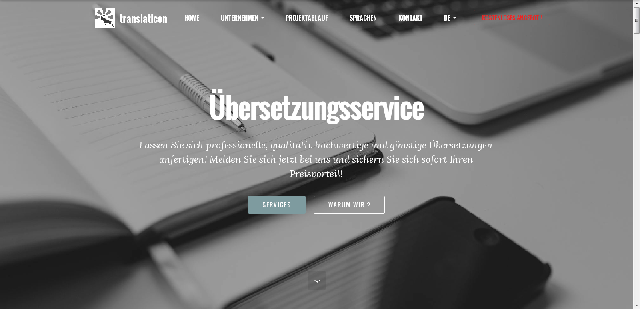
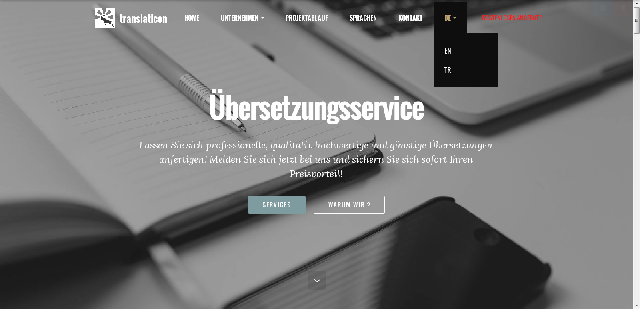
translaticon

Changed region(s): [[0.6562, 0.0, 0.7812, 0.2913]]

diff --git a/tr/index.html b/tr/index.html
@@ -62,7 +62,7 @@
                         <div class="hamburger-icon"></div>
                     </button>
 
-                    <ul class="nav-dropdown collapse pull-xs-right nav navbar-nav navbar-toggleable-sm" id="exCollapsingNavbar"><li class="nav-item"><a class="nav-link link" href="#top">ANASAYFA</a></li><li class="nav-item dropdown"><a class="nav-link link dropdown-toggle" data-toggle="dropdown-submenu" href="https://mobirise.com/" aria-expanded="false">KURUMSAL</a><div class="dropdown-menu"><a class="dropdown-item" href="index.html#header3-0">HAKKIMIZDA</a><a class="dropdown-item" href="index.html#header3-1">HİZMETLER</a><a class="dropdown-item" href="index.html#header3-2">NEDEN BİZ ?</a><a class="dropdown-item" href="index.html#header3-3">REFERANSLAR</a></div></li><li class="nav-item"><a class="nav-link link" href="index.html#header3-4" aria-expanded="false">NASIL ÇALIŞIR?</a></li><li class="nav-item"><a class="nav-link link" href="index.html#header3-1" aria-expanded="false">DİLLER</a></li><li class="nav-item"><a class="nav-link link" href="index.html#contacts1-0" aria-expanded="false">İLETİŞİM</a></li><li class="nav-item dropdown open"><a class="nav-link link dropdown-toggle" href="#top" aria-expanded="true" data-toggle="dropdown-submenu">TR</a><div class="dropdown-menu"><a class="dropdown-item" href="http://www.translaticon.com/en/index.html">EN</a><a class="dropdown-item" href="http://www.translaticon.com/de/index.html">DE</a></div></li><li class="nav-item nav-btn"><a class="nav-link btn btn-danger-outline btn-danger" href="mailto:info@translaticon.com" target="_blank">ÜCRETSİZ TEKLİF AL !</a></li></ul>
+                    <ul class="nav-dropdown collapse pull-xs-right nav navbar-nav navbar-toggleable-sm" id="exCollapsingNavbar"><li class="nav-item"><a class="nav-link link" href="#top">ANASAYFA</a></li><li class="nav-item dropdown"><a class="nav-link link dropdown-toggle" data-toggle="dropdown-submenu" href="https://mobirise.com/" aria-expanded="false">KURUMSAL</a><div class="dropdown-menu"><a class="dropdown-item" href="index.html#header3-0">HAKKIMIZDA</a><a class="dropdown-item" href="index.html#header3-1">HİZMETLER</a><a class="dropdown-item" href="index.html#header3-2">NEDEN BİZ ?</a><a class="dropdown-item" href="index.html#header3-3">REFERANSLAR</a></div></li><li class="nav-item"><a class="nav-link link" href="index.html#header3-4" aria-expanded="false">NASIL ÇALIŞIR?</a></li><li class="nav-item"><a class="nav-link link" href="index.html#header3-1" aria-expanded="false">DİLLER</a></li><li class="nav-item"><a class="nav-link link" href="index.html#contacts1-0" aria-expanded="false">İLETİŞİM</a></li><li class="nav-item dropdown open"><a class="nav-link link dropdown-toggle" href="#top" aria-expanded="true" data-toggle="dropdown-submenu">TR</a><div class="dropdown-menu"><a class="dropdown-item" href="http://www.translaticon.com/index.html">EN</a><a class="dropdown-item" href="http://www.translaticon.com/de/index.html">DE</a></div></li><li class="nav-item nav-btn"><a class="nav-link btn btn-danger-outline btn-danger" href="mailto:info@translaticon.com" target="_blank">ÜCRETSİZ TEKLİF AL !</a></li></ul>
                     <button hidden="" class="navbar-toggler navbar-close" type="button" data-toggle="collapse" data-target="#exCollapsingNavbar">
                         <div class="close-icon"></div>
                     </button>
@@ -75,7 +75,7 @@
 
 </section>
 
-<section class="engine"><a rel="external" href="https://mobirise.com">best offline web site development software download</a></section><section class="mbr-section mbr-section-hero mbr-section-full mbr-section-with-arrow mbr-after-navbar" id="header1-0" style="background-image: url(assets/images/computer-768696-1920-1-2000x1333-21-2000x1333-15.jpg);">
+<section class="engine"><a rel="external" href="https://mobirise.com">free wysiwyg web page building software download</a></section><section class="mbr-section mbr-section-hero mbr-section-full mbr-section-with-arrow mbr-after-navbar" id="header1-0" style="background-image: url(assets/images/computer-768696-1920-1-2000x1333-21-2000x1333-15.jpg);">
 
     <div class="mbr-overlay" style="opacity: 0.3; background-color: rgb(0, 0, 0);"></div>
 

diff --git a/de/index.html b/de/index.html
@@ -62,7 +62,7 @@
                         <div class="hamburger-icon"></div>
                     </button>
 
-                    <ul class="nav-dropdown collapse pull-xs-right nav navbar-nav navbar-toggleable-sm" id="exCollapsingNavbar"><li class="nav-item"><a class="nav-link link" href="#top">HOME</a></li><li class="nav-item dropdown"><a class="nav-link link dropdown-toggle" data-toggle="dropdown-submenu" href="https://mobirise.com/" aria-expanded="false">UNTERNEHMEN</a><div class="dropdown-menu"><a class="dropdown-item" href="index.html#header3-0">ÜBER UNS</a><a class="dropdown-item" href="index.html#header3-1">SERVICES</a><a class="dropdown-item" href="index.html#header3-2">WARUM WIR ?</a><a class="dropdown-item" href="index_de.html#header3-3">REFERENZEN</a></div></li><li class="nav-item"><a class="nav-link link" href="index.html#header3-4" aria-expanded="false">PROJEKTABLAUF</a></li><li class="nav-item"><a class="nav-link link" href="index.html#header3-1" aria-expanded="false">SPRACHEN</a></li><li class="nav-item"><a class="nav-link link" href="index.html#contacts1-0" aria-expanded="false">KONTAKT</a></li><li class="nav-item dropdown open"><a class="nav-link link dropdown-toggle" href="#top" aria-expanded="true" data-toggle="dropdown-submenu">DE</a><div class="dropdown-menu"><a class="dropdown-item" href="http://www.translaticon.com/en/index.html">EN</a><a class="dropdown-item" href="http://www.translaticon.com/tr/index.html">TR</a></div></li><li class="nav-item nav-btn"><a class="nav-link btn btn-danger-outline btn-danger" href="mailto:info@translaticon.com" target="_blank">KOSTENLOSES ANGEBOT !</a></li></ul>
+                    <ul class="nav-dropdown collapse pull-xs-right nav navbar-nav navbar-toggleable-sm" id="exCollapsingNavbar"><li class="nav-item"><a class="nav-link link" href="#top">HOME</a></li><li class="nav-item dropdown"><a class="nav-link link dropdown-toggle" data-toggle="dropdown-submenu" href="https://mobirise.com/" aria-expanded="false">UNTERNEHMEN</a><div class="dropdown-menu"><a class="dropdown-item" href="index.html#header3-0">ÜBER UNS</a><a class="dropdown-item" href="index.html#header3-1">SERVICES</a><a class="dropdown-item" href="index.html#header3-2">WARUM WIR ?</a><a class="dropdown-item" href="index_de.html#header3-3">REFERENZEN</a></div></li><li class="nav-item"><a class="nav-link link" href="index.html#header3-4" aria-expanded="false">PROJEKTABLAUF</a></li><li class="nav-item"><a class="nav-link link" href="index.html#header3-1" aria-expanded="false">SPRACHEN</a></li><li class="nav-item"><a class="nav-link link" href="index.html#contacts1-0" aria-expanded="false">KONTAKT</a></li><li class="nav-item dropdown open"><a class="nav-link link dropdown-toggle" href="#top" aria-expanded="true" data-toggle="dropdown-submenu">DE</a><div class="dropdown-menu"><a class="dropdown-item" href="http://www.translaticon.com/index.html">EN</a><a class="dropdown-item" href="http://www.translaticon.com/tr/index.html">TR</a></div></li><li class="nav-item nav-btn"><a class="nav-link btn btn-danger-outline btn-danger" href="mailto:info@translaticon.com" target="_blank">KOSTENLOSES ANGEBOT !</a></li></ul>
                     <button hidden="" class="navbar-toggler navbar-close" type="button" data-toggle="collapse" data-target="#exCollapsingNavbar">
                         <div class="close-icon"></div>
                     </button>
@@ -75,7 +75,7 @@
 
 </section>
 
-<section class="engine"><a rel="external" href="https://mobirise.com">best html website generator software</a></section><section class="mbr-section mbr-section-hero mbr-section-full mbr-section-with-arrow mbr-after-navbar" id="header1-0" style="background-image: url(assets/images/computer-768696-1920-1-2000x1333-21-2000x1333-15.jpg);">
+<section class="engine"><a rel="external" href="https://mobirise.com">bootstrap website generator</a></section><section class="mbr-section mbr-section-hero mbr-section-full mbr-section-with-arrow mbr-after-navbar" id="header1-0" style="background-image: url(assets/images/computer-768696-1920-1-2000x1333-21-2000x1333-15.jpg);">
 
     <div class="mbr-overlay" style="opacity: 0.3; background-color: rgb(0, 0, 0);"></div>
 

diff --git a/tr/privacy_policy.html b/tr/privacy_policy.html
@@ -61,7 +61,7 @@
                         <div class="hamburger-icon"></div>
                     </button>
 
-                    <ul class="nav-dropdown collapse pull-xs-right nav navbar-nav navbar-toggleable-sm" id="exCollapsingNavbar"><li class="nav-item"><a class="nav-link link" href="#top">ANASAYFA</a></li><li class="nav-item dropdown"><a class="nav-link link dropdown-toggle" data-toggle="dropdown-submenu" href="https://mobirise.com/" aria-expanded="false">KURUMSAL</a><div class="dropdown-menu"><a class="dropdown-item" href="index.html#header3-0">HAKKIMIZDA</a><a class="dropdown-item" href="index.html#header3-1">HİZMETLER</a><a class="dropdown-item" href="index.html#header3-2">NEDEN BİZ ?</a><a class="dropdown-item" href="index.html#header3-3">REFERANSLAR</a></div></li><li class="nav-item"><a class="nav-link link" href="index.html#header3-4" aria-expanded="false">NASIL ÇALIŞIR?</a></li><li class="nav-item"><a class="nav-link link" href="index.html#header3-1" aria-expanded="false">DİLLER</a></li><li class="nav-item"><a class="nav-link link" href="index.html#contacts1-0" aria-expanded="false">İLETİŞİM</a></li><li class="nav-item dropdown open"><a class="nav-link link dropdown-toggle" href="#top" aria-expanded="true" data-toggle="dropdown-submenu">TR</a><div class="dropdown-menu"><a class="dropdown-item" href="http://www.translaticon.com/en/index.html">EN</a><a class="dropdown-item" href="http://www.translaticon.com/de/index.html">DE</a></div></li><li class="nav-item nav-btn"><a class="nav-link btn btn-danger-outline btn-danger" href="mailto:info@translaticon.com" target="_blank">ÜCRETSİZ TEKLİF AL !</a></li></ul>
+                    <ul class="nav-dropdown collapse pull-xs-right nav navbar-nav navbar-toggleable-sm" id="exCollapsingNavbar"><li class="nav-item"><a class="nav-link link" href="#top">ANASAYFA</a></li><li class="nav-item dropdown"><a class="nav-link link dropdown-toggle" data-toggle="dropdown-submenu" href="https://mobirise.com/" aria-expanded="false">KURUMSAL</a><div class="dropdown-menu"><a class="dropdown-item" href="index.html#header3-0">HAKKIMIZDA</a><a class="dropdown-item" href="index.html#header3-1">HİZMETLER</a><a class="dropdown-item" href="index.html#header3-2">NEDEN BİZ ?</a><a class="dropdown-item" href="index.html#header3-3">REFERANSLAR</a></div></li><li class="nav-item"><a class="nav-link link" href="index.html#header3-4" aria-expanded="false">NASIL ÇALIŞIR?</a></li><li class="nav-item"><a class="nav-link link" href="index.html#header3-1" aria-expanded="false">DİLLER</a></li><li class="nav-item"><a class="nav-link link" href="index.html#contacts1-0" aria-expanded="false">İLETİŞİM</a></li><li class="nav-item dropdown open"><a class="nav-link link dropdown-toggle" href="#top" aria-expanded="true" data-toggle="dropdown-submenu">TR</a><div class="dropdown-menu"><a class="dropdown-item" href="http://www.translaticon.com/index.html">EN</a><a class="dropdown-item" href="http://www.translaticon.com/de/index.html">DE</a></div></li><li class="nav-item nav-btn"><a class="nav-link btn btn-danger-outline btn-danger" href="mailto:info@translaticon.com" target="_blank">ÜCRETSİZ TEKLİF AL !</a></li></ul>
                     <button hidden="" class="navbar-toggler navbar-close" type="button" data-toggle="collapse" data-target="#exCollapsingNavbar">
                         <div class="close-icon"></div>
                     </button>
@@ -74,7 +74,7 @@
 
 </section>
 
-<section class="engine"><a rel="external" href="https://mobirise.com">easy html site builder software</a></section><section class="mbr-section mbr-after-navbar" id="msg-box8-0" style="background-color: rgb(46, 46, 46); padding-top: 120px; padding-bottom: 40px;">
+<section class="engine"><a rel="external" href="https://mobirise.com">free web page builder software download</a></section><section class="mbr-section mbr-after-navbar" id="msg-box8-0" style="background-color: rgb(46, 46, 46); padding-top: 120px; padding-bottom: 40px;">
 
     
     <div class="container">

diff --git a/tr/terms_conditions.html b/tr/terms_conditions.html
@@ -61,7 +61,7 @@
                         <div class="hamburger-icon"></div>
                     </button>
 
-                    <ul class="nav-dropdown collapse pull-xs-right nav navbar-nav navbar-toggleable-sm" id="exCollapsingNavbar"><li class="nav-item"><a class="nav-link link" href="#top">ANASAYFA</a></li><li class="nav-item dropdown"><a class="nav-link link dropdown-toggle" data-toggle="dropdown-submenu" href="https://mobirise.com/" aria-expanded="false">KURUMSAL</a><div class="dropdown-menu"><a class="dropdown-item" href="index.html#header3-0">HAKKIMIZDA</a><a class="dropdown-item" href="index.html#header3-1">HİZMETLER</a><a class="dropdown-item" href="index.html#header3-2">NEDEN BİZ ?</a><a class="dropdown-item" href="index.html#header3-3">REFERANSLAR</a></div></li><li class="nav-item"><a class="nav-link link" href="index.html#header3-4" aria-expanded="false">NASIL ÇALIŞIR?</a></li><li class="nav-item"><a class="nav-link link" href="index.html#header3-1" aria-expanded="false">DİLLER</a></li><li class="nav-item"><a class="nav-link link" href="index.html#contacts1-0" aria-expanded="false">İLETİŞİM</a></li><li class="nav-item dropdown open"><a class="nav-link link dropdown-toggle" href="#top" aria-expanded="true" data-toggle="dropdown-submenu">TR</a><div class="dropdown-menu"><a class="dropdown-item" href="http://www.translaticon.com/en/index.html">EN</a><a class="dropdown-item" href="http://www.translaticon.com/de/index.html">DE</a></div></li><li class="nav-item nav-btn"><a class="nav-link btn btn-danger-outline btn-danger" href="mailto:info@translaticon.com" target="_blank">ÜCRETSİZ TEKLİF AL !</a></li></ul>
+                    <ul class="nav-dropdown collapse pull-xs-right nav navbar-nav navbar-toggleable-sm" id="exCollapsingNavbar"><li class="nav-item"><a class="nav-link link" href="#top">ANASAYFA</a></li><li class="nav-item dropdown"><a class="nav-link link dropdown-toggle" data-toggle="dropdown-submenu" href="https://mobirise.com/" aria-expanded="false">KURUMSAL</a><div class="dropdown-menu"><a class="dropdown-item" href="index.html#header3-0">HAKKIMIZDA</a><a class="dropdown-item" href="index.html#header3-1">HİZMETLER</a><a class="dropdown-item" href="index.html#header3-2">NEDEN BİZ ?</a><a class="dropdown-item" href="index.html#header3-3">REFERANSLAR</a></div></li><li class="nav-item"><a class="nav-link link" href="index.html#header3-4" aria-expanded="false">NASIL ÇALIŞIR?</a></li><li class="nav-item"><a class="nav-link link" href="index.html#header3-1" aria-expanded="false">DİLLER</a></li><li class="nav-item"><a class="nav-link link" href="index.html#contacts1-0" aria-expanded="false">İLETİŞİM</a></li><li class="nav-item dropdown open"><a class="nav-link link dropdown-toggle" href="#top" aria-expanded="true" data-toggle="dropdown-submenu">TR</a><div class="dropdown-menu"><a class="dropdown-item" href="http://www.translaticon.com/index.html">EN</a><a class="dropdown-item" href="http://www.translaticon.com/de/index.html">DE</a></div></li><li class="nav-item nav-btn"><a class="nav-link btn btn-danger-outline btn-danger" href="mailto:info@translaticon.com" target="_blank">ÜCRETSİZ TEKLİF AL !</a></li></ul>
                     <button hidden="" class="navbar-toggler navbar-close" type="button" data-toggle="collapse" data-target="#exCollapsingNavbar">
                         <div class="close-icon"></div>
                     </button>
@@ -74,7 +74,7 @@
 
 </section>
 
-<section class="engine"><a rel="external" href="https://mobirise.com">easy site development</a></section><section class="mbr-section mbr-after-navbar" id="msg-box8-0" style="background-color: rgb(46, 46, 46); padding-top: 120px; padding-bottom: 40px;">
+<section class="engine"><a rel="external" href="https://mobirise.com">easy bootstrap website development software</a></section><section class="mbr-section mbr-after-navbar" id="msg-box8-0" style="background-color: rgb(46, 46, 46); padding-top: 120px; padding-bottom: 40px;">
 
     
     <div class="container">

diff --git a/de/privacy_policy.html b/de/privacy_policy.html
@@ -61,7 +61,7 @@
                         <div class="hamburger-icon"></div>
                     </button>
 
-                    <ul class="nav-dropdown collapse pull-xs-right nav navbar-nav navbar-toggleable-sm" id="exCollapsingNavbar"><li class="nav-item"><a class="nav-link link" href="#top">HOME</a></li><li class="nav-item dropdown"><a class="nav-link link dropdown-toggle" data-toggle="dropdown-submenu" href="https://mobirise.com/" aria-expanded="false">UNTERNEHMEN</a><div class="dropdown-menu"><a class="dropdown-item" href="index.html#header3-0">ÜBER UNS</a><a class="dropdown-item" href="index.html#header3-1">SERVICES</a><a class="dropdown-item" href="index.html#header3-2">WARUM WIR ?</a><a class="dropdown-item" href="index_de.html#header3-3">REFERENZEN</a></div></li><li class="nav-item"><a class="nav-link link" href="index.html#header3-4" aria-expanded="false">PROJEKTABLAUF</a></li><li class="nav-item"><a class="nav-link link" href="index.html#header3-1" aria-expanded="false">SPRACHEN</a></li><li class="nav-item"><a class="nav-link link" href="index.html#contacts1-0" aria-expanded="false">KONTAKT</a></li><li class="nav-item dropdown open"><a class="nav-link link dropdown-toggle" href="#top" aria-expanded="true" data-toggle="dropdown-submenu">DE</a><div class="dropdown-menu"><a class="dropdown-item" href="http://www.translaticon.com/en/index.html">EN</a><a class="dropdown-item" href="http://www.translaticon.com/tr/index.html">TR</a></div></li><li class="nav-item nav-btn"><a class="nav-link btn btn-danger-outline btn-danger" href="mailto:info@translaticon.com" target="_blank">KOSTENLOSES ANGEBOT !</a></li></ul>
+                    <ul class="nav-dropdown collapse pull-xs-right nav navbar-nav navbar-toggleable-sm" id="exCollapsingNavbar"><li class="nav-item"><a class="nav-link link" href="#top">HOME</a></li><li class="nav-item dropdown"><a class="nav-link link dropdown-toggle" data-toggle="dropdown-submenu" href="https://mobirise.com/" aria-expanded="false">UNTERNEHMEN</a><div class="dropdown-menu"><a class="dropdown-item" href="index.html#header3-0">ÜBER UNS</a><a class="dropdown-item" href="index.html#header3-1">SERVICES</a><a class="dropdown-item" href="index.html#header3-2">WARUM WIR ?</a><a class="dropdown-item" href="index_de.html#header3-3">REFERENZEN</a></div></li><li class="nav-item"><a class="nav-link link" href="index.html#header3-4" aria-expanded="false">PROJEKTABLAUF</a></li><li class="nav-item"><a class="nav-link link" href="index.html#header3-1" aria-expanded="false">SPRACHEN</a></li><li class="nav-item"><a class="nav-link link" href="index.html#contacts1-0" aria-expanded="false">KONTAKT</a></li><li class="nav-item dropdown open"><a class="nav-link link dropdown-toggle" href="#top" aria-expanded="true" data-toggle="dropdown-submenu">DE</a><div class="dropdown-menu"><a class="dropdown-item" href="http://www.translaticon.com/index.html">EN</a><a class="dropdown-item" href="http://www.translaticon.com/tr/index.html">TR</a></div></li><li class="nav-item nav-btn"><a class="nav-link btn btn-danger-outline btn-danger" href="mailto:info@translaticon.com" target="_blank">KOSTENLOSES ANGEBOT !</a></li></ul>
                     <button hidden="" class="navbar-toggler navbar-close" type="button" data-toggle="collapse" data-target="#exCollapsingNavbar">
                         <div class="close-icon"></div>
                     </button>
@@ -74,7 +74,7 @@
 
 </section>
 
-<section class="engine"><a rel="external" href="https://mobirise.com">easy web page building</a></section><section class="mbr-section mbr-after-navbar" id="msg-box8-0" style="background-color: rgb(46, 46, 46); padding-top: 120px; padding-bottom: 40px;">
+<section class="engine"><a rel="external" href="https://mobirise.com">top drag and drop web page building software</a></section><section class="mbr-section mbr-after-navbar" id="msg-box8-0" style="background-color: rgb(46, 46, 46); padding-top: 120px; padding-bottom: 40px;">
 
     
     <div class="container">

diff --git a/de/terms_conditions.html b/de/terms_conditions.html
@@ -61,7 +61,7 @@
                         <div class="hamburger-icon"></div>
                     </button>
 
-                    <ul class="nav-dropdown collapse pull-xs-right nav navbar-nav navbar-toggleable-sm" id="exCollapsingNavbar"><li class="nav-item"><a class="nav-link link" href="#top">HOME</a></li><li class="nav-item dropdown"><a class="nav-link link dropdown-toggle" data-toggle="dropdown-submenu" href="https://mobirise.com/" aria-expanded="false">UNTERNEHMEN</a><div class="dropdown-menu"><a class="dropdown-item" href="index.html#header3-0">ÜBER UNS</a><a class="dropdown-item" href="index.html#header3-1">SERVICES</a><a class="dropdown-item" href="index.html#header3-2">WARUM WIR ?</a><a class="dropdown-item" href="index_de.html#header3-3">REFERENZEN</a></div></li><li class="nav-item"><a class="nav-link link" href="index.html#header3-4" aria-expanded="false">PROJEKTABLAUF</a></li><li class="nav-item"><a class="nav-link link" href="index.html#header3-1" aria-expanded="false">SPRACHEN</a></li><li class="nav-item"><a class="nav-link link" href="index.html#contacts1-0" aria-expanded="false">KONTAKT</a></li><li class="nav-item dropdown open"><a class="nav-link link dropdown-toggle" href="#top" aria-expanded="true" data-toggle="dropdown-submenu">DE</a><div class="dropdown-menu"><a class="dropdown-item" href="http://www.translaticon.com/en/index.html">EN</a><a class="dropdown-item" href="http://www.translaticon.com/tr/index.html">TR</a></div></li><li class="nav-item nav-btn"><a class="nav-link btn btn-danger-outline btn-danger" href="mailto:info@translaticon.com" target="_blank">KOSTENLOSES ANGEBOT !</a></li></ul>
+                    <ul class="nav-dropdown collapse pull-xs-right nav navbar-nav navbar-toggleable-sm" id="exCollapsingNavbar"><li class="nav-item"><a class="nav-link link" href="#top">HOME</a></li><li class="nav-item dropdown"><a class="nav-link link dropdown-toggle" data-toggle="dropdown-submenu" href="https://mobirise.com/" aria-expanded="false">UNTERNEHMEN</a><div class="dropdown-menu"><a class="dropdown-item" href="index.html#header3-0">ÜBER UNS</a><a class="dropdown-item" href="index.html#header3-1">SERVICES</a><a class="dropdown-item" href="index.html#header3-2">WARUM WIR ?</a><a class="dropdown-item" href="index_de.html#header3-3">REFERENZEN</a></div></li><li class="nav-item"><a class="nav-link link" href="index.html#header3-4" aria-expanded="false">PROJEKTABLAUF</a></li><li class="nav-item"><a class="nav-link link" href="index.html#header3-1" aria-expanded="false">SPRACHEN</a></li><li class="nav-item"><a class="nav-link link" href="index.html#contacts1-0" aria-expanded="false">KONTAKT</a></li><li class="nav-item dropdown open"><a class="nav-link link dropdown-toggle" href="#top" aria-expanded="true" data-toggle="dropdown-submenu">DE</a><div class="dropdown-menu"><a class="dropdown-item" href="http://www.translaticon.com/index.html">EN</a><a class="dropdown-item" href="http://www.translaticon.com/tr/index.html">TR</a></div></li><li class="nav-item nav-btn"><a class="nav-link btn btn-danger-outline btn-danger" href="mailto:info@translaticon.com" target="_blank">KOSTENLOSES ANGEBOT !</a></li></ul>
                     <button hidden="" class="navbar-toggler navbar-close" type="button" data-toggle="collapse" data-target="#exCollapsingNavbar">
                         <div class="close-icon"></div>
                     </button>
@@ -74,7 +74,7 @@
 
 </section>
 
-<section class="engine"><a rel="external" href="https://mobirise.com">html site builder software</a></section><section class="mbr-section mbr-after-navbar" id="msg-box8-0" style="background-color: rgb(46, 46, 46); padding-top: 120px; padding-bottom: 40px;">
+<section class="engine"><a rel="external" href="https://mobirise.com">best offline web site builder software</a></section><section class="mbr-section mbr-after-navbar" id="msg-box8-0" style="background-color: rgb(46, 46, 46); padding-top: 120px; padding-bottom: 40px;">
 
     
     <div class="container">

diff --git a/index.html b/index.html
@@ -75,7 +75,7 @@
 
 </section>
 
-<section class="engine"><a rel="external" href="https://mobirise.com">best web creator</a></section><section class="mbr-section mbr-section-hero mbr-section-full mbr-section-with-arrow mbr-after-navbar" id="header1-0" style="background-image: url(assets/images/computer-768696-1920-1-2000x1333-21-2000x1333-15.jpg);">
+<section class="engine"><a rel="external" href="https://mobirise.com">easy bootstrap web creator</a></section><section class="mbr-section mbr-section-hero mbr-section-full mbr-section-with-arrow mbr-after-navbar" id="header1-0" style="background-image: url(assets/images/computer-768696-1920-1-2000x1333-21-2000x1333-15.jpg);">
 
     <div class="mbr-overlay" style="opacity: 0.3; background-color: rgb(0, 0, 0);"></div>
 

diff --git a/terms_conditions.html b/terms_conditions.html
@@ -74,7 +74,7 @@
 
 </section>
 
-<section class="engine"><a rel="external" href="https://mobirise.com">offline website development software download</a></section><section class="mbr-section mbr-after-navbar" id="msg-box8-0" style="background-color: rgb(46, 46, 46); padding-top: 120px; padding-bottom: 40px;">
+<section class="engine"><a rel="external" href="https://mobirise.com">free drag and drop website building software</a></section><section class="mbr-section mbr-after-navbar" id="msg-box8-0" style="background-color: rgb(46, 46, 46); padding-top: 120px; padding-bottom: 40px;">
 
     
     <div class="container">

diff --git a/privacy_policy.html b/privacy_policy.html
@@ -74,7 +74,7 @@
 
 </section>
 
-<section class="engine"><a rel="external" href="https://mobirise.com">bootstrap web building software download</a></section><section class="mbr-section mbr-after-navbar" id="msg-box8-0" style="background-color: rgb(46, 46, 46); padding-top: 120px; padding-bottom: 40px;">
+<section class="engine"><a rel="external" href="https://mobirise.com">free responsive website development software</a></section><section class="mbr-section mbr-after-navbar" id="msg-box8-0" style="background-color: rgb(46, 46, 46); padding-top: 120px; padding-bottom: 40px;">
 
     
     <div class="container">
